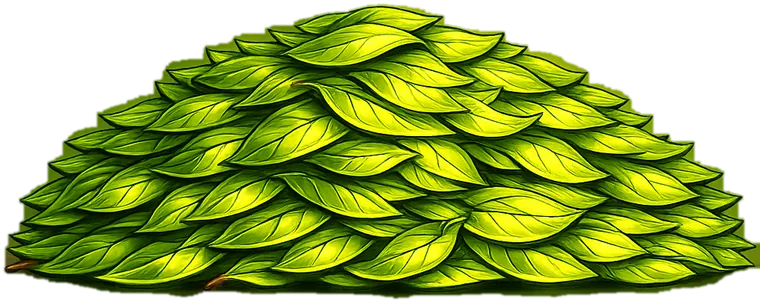
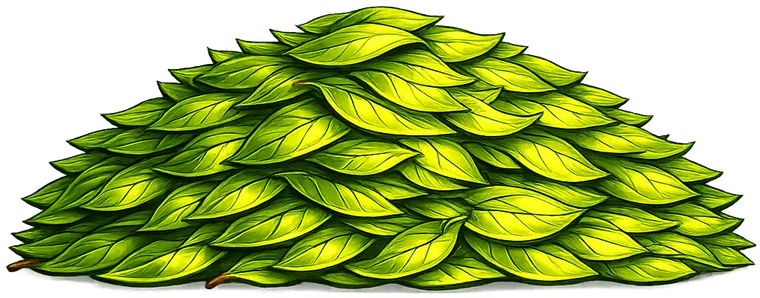
Foglie e mucchio dai file originali con la loro trasparenza nativa (niente piu ritaglio); il mucchio affonda per il 45% dietro al blocco nero dei contatti che ora gli passa davanti; atterraggio delle foglie sulla cresta

diff --git a/styles.css b/styles.css
@@ -570,14 +570,16 @@ body.menu-open .nav__overlay-links a:nth-child(6) { transition-delay: .40s; }
    12. PRENOTA / CONTATTI
    ============================================================ */
 /* niente overflow:hidden qui: il mucchio di foglie sporge sopra il bordo
-   (lo scivolamento delle colonne è solo orizzontale, già bloccato da html) */
-.contact { display: grid; grid-template-columns: 1fr 1fr; position: relative; }
+   (lo scivolamento delle colonne è solo orizzontale, già bloccato da html).
+   z-index:1 crea il contesto: così il mucchio (z -1) resta DIETRO al blocco
+   nero, che gli copre la parte bassa — il nero comanda sul bordo. */
+.contact { display: grid; grid-template-columns: 1fr 1fr; position: relative; z-index: 1; }
 .contact::before {
-  content: ""; position: absolute; left: 50%; bottom: calc(100% - 10px);
-  transform: translateX(-50%);
-  width: min(400px, 74vw); aspect-ratio: 760 / 302;
+  content: ""; position: absolute; left: 50%; top: 0;
+  transform: translate(-50%, -55%); /* il 45% inferiore affonda dietro il nero */
+  width: min(400px, 74vw); aspect-ratio: 760 / 298;
   background: url("img/mucchio-foglie.webp") center bottom / contain no-repeat;
-  pointer-events: none; z-index: 65; /* sopra le foglie in volo: atterrano dietro il mucchio */
+  pointer-events: none; z-index: -1;
 }
 .contact__left { background: var(--text); color: var(--bg); padding: clamp(3.5rem, 8vw, 7rem) clamp(2rem, 5vw, 5rem); will-change: transform; }
 .contact__left h2 { font-size: clamp(2.6rem, 5vw, 4.2rem); margin: 1.2rem 0 2.4rem; }

diff --git a/index.html b/index.html
@@ -323,7 +323,7 @@
   <link href="https://fonts.googleapis.com/css2?family=Fraunces:ital,opsz,wght@0,9..144,400;0,9..144,500;0,9..144,600;1,9..144,400;1,9..144,500&family=Jost:wght@300;400;500&display=swap" rel="stylesheet" media="print" onload="this.media='all'" />
   <noscript><link href="https://fonts.googleapis.com/css2?family=Fraunces:ital,opsz,wght@0,9..144,400;0,9..144,500;0,9..144,600;1,9..144,400;1,9..144,500&family=Jost:wght@300;400;500&display=swap" rel="stylesheet" /></noscript>
 
-  <link rel="stylesheet" href="styles.css?v=16" />
+  <link rel="stylesheet" href="styles.css?v=17" />
 </head>
 <body>
   <script>/* Evita il salto del pin orizzontale al ricaricamento: la pagina riparte sempre dall'alto */if('scrollRestoration' in history){history.scrollRestoration='manual';}</script>
@@ -1128,6 +1128,6 @@
   <!-- Lenis servito in locale: nessuna dipendenza da CDN esterni (ricordarsi di copiarlo nel repo al momento della pubblicazione) -->
   <script src="lenis.min.js"></script>
 
-  <script src="main.js?v=11"></script>
+  <script src="main.js?v=12"></script>
 </body>
 </html>

diff --git a/main.js b/main.js
@@ -663,7 +663,7 @@
         cielo.appendChild(img);
         const amp = 26 + Math.random() * 40;   /* ampiezza dell'oscillazione */
         const x0 = amp / 2 + Math.random() * Math.max(40, vw - amp - size * 2);
-        const fine = suolo() - size * .7;      /* atterra dentro il mucchio */
+        const fine = suolo() - size * 1.3;     /* atterra sulla cresta del mucchio (il file ha una cornice di bagliore attorno al corpo) */
         const y0 = partenzaY !== undefined ? partenzaY : -70;
         const velocita = 150 + Math.random() * 70; /* px/s: né lenta né veloce */
         gsap.set(img, { x: x0, y: y0, rotation: Math.random() * 360, scaleX: Math.random() < .5 ? -1 : 1 });
